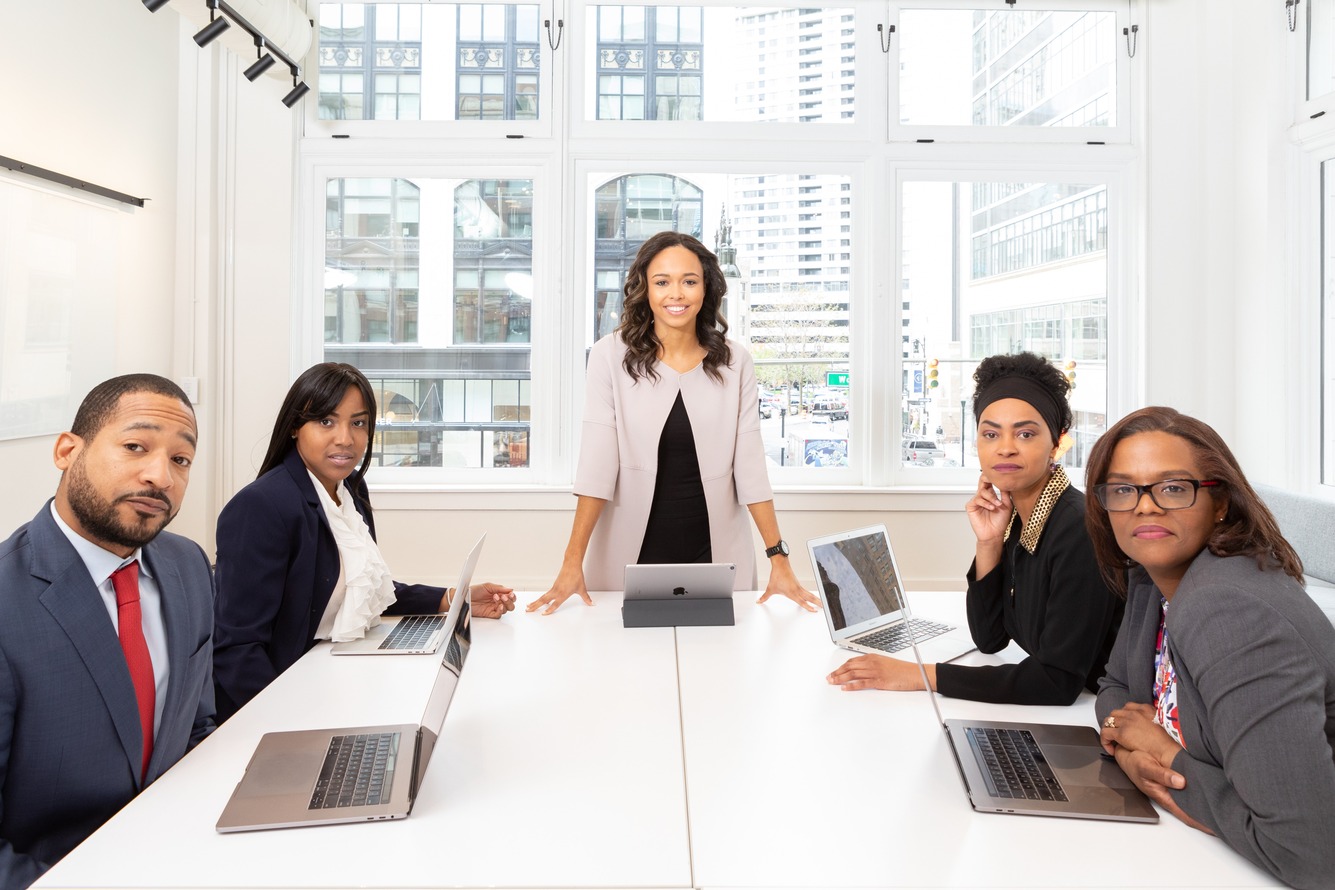
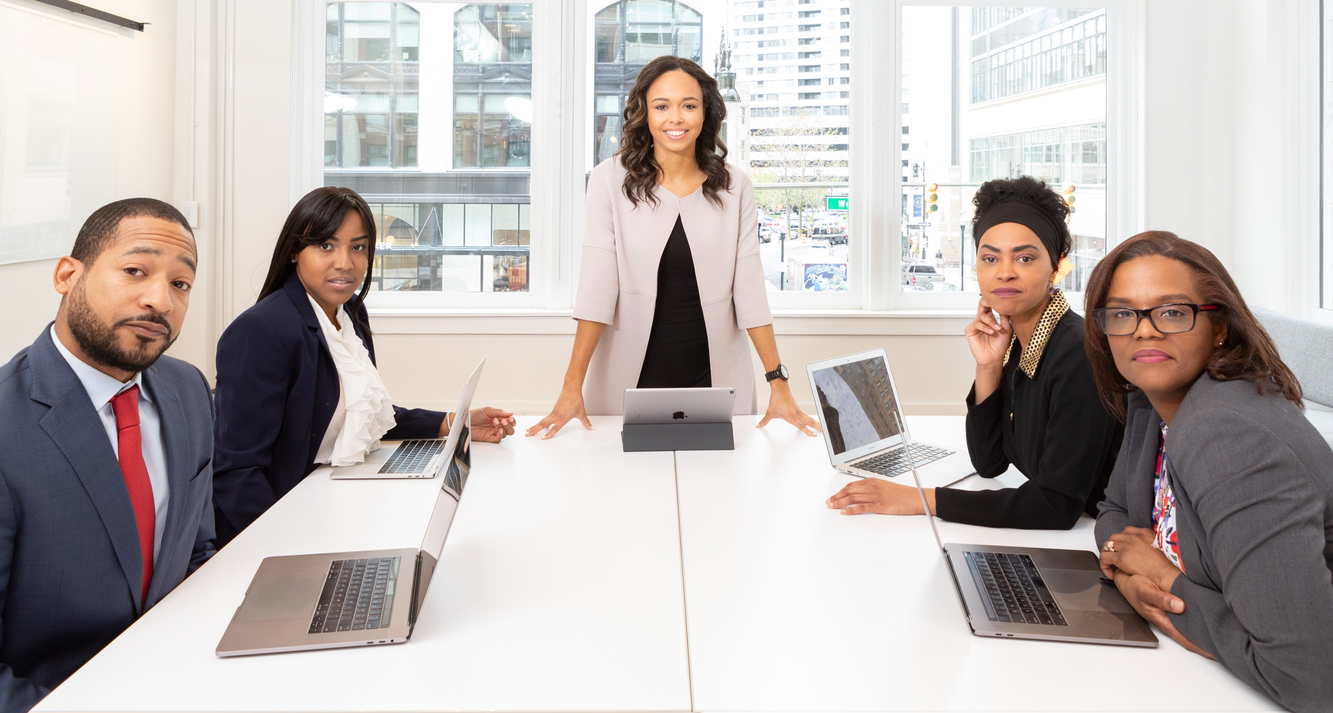
Add the carousel for homepage

diff --git a/src/app/smartjobs/components/homepage/homepage.component.css b/src/app/smartjobs/components/homepage/homepage.component.css
@@ -1,20 +1,102 @@
-h3,
+@import url('https://fonts.googleapis.com/css?family=Roboto:300');
+.owl-carousel-holder{
+  width:100%;
+  float: left;
+}
+.img-wrapper {
+  position: relative;
+  text-align: center;
+  color: #415AB5;
+}
+.centered {
+  position: absolute;
+  top: 73%;
+  left: 50%;
+  transform: translate(-50%, -50%);
+  font-family:'Roboto';
+}
+.centered {
+  display:inline-block;
+  overflow:hidden;
+  white-space:nowrap;
+}
+
+.centered:first-of-type {    /* For increasing performance 
+                       ID/Class should've been used. 
+                       For a small demo 
+                       it's okaish for now */
+  animation: showup 7s infinite;
+}
+
+.centered:last-of-type {
+  width:0px;
+  animation: reveal 7s infinite;
+}
+
+.centered:last-of-type span {
+  margin-left:-355px;
+  animation: slidein 7s infinite;
+}
+
+@keyframes showup {
+    0% {opacity:0;}
+    20% {opacity:1;}
+    80% {opacity:1;}
+    100% {opacity:0;}
+}
+
+@keyframes slidein {
+    0% { margin-left:-800px; }
+    20% { margin-left:-800px; }
+    35% { margin-left:0px; }
+    100% { margin-left:0px; }
+}
+
+@keyframes reveal {
+    0% {opacity:0;width:0px;}
+    20% {opacity:1;width:0px;}
+    30% {width:355px;}
+    80% {opacity:1;}
+    100% {opacity:0;width:355px;}
+}
+.links {
+  position: absolute;
+  left: 39%;
+  top: 80%;
+}
+
+
+
+/* .carousel-section{
+  width: 100%;
+  height: 30px;
+  float: left;
+  margin-top: 60px;
+} */
+
+/* .slider-image-section{
+  width: 100%;
+  height:30px;
+  float: left;
+} */
+/* h3,
 h5, h4, mat-card-title, .appdate {
   color: #4159B5;
   margin-bottom: 5px;
-}
+} */
 
 img {
-  width: 100vh;
+  /* width: 110%; */
+  /* height: 95vh; */
 }
-
+/* 
 mat-grid-tile img {
-  /* border-radius: 50%; */
+  border-radius: 50%;
   height: 50px;
   width: 50px;
-}
+} */
 
-.col-md-3 {
+/* .col-md-3 {
   margin-right: 20px;
 }
 .full-width {
@@ -25,9 +107,9 @@ mat-grid-tile img {
 .form_container {
   padding-bottom: 10px;
   margin-top: 20px;
-}
+} */
 
-.step1s {
+/* .step1s {
   display: none;
 }
 mat-card:hover + .step1p {
@@ -36,4 +118,4 @@ mat-card:hover + .step1p {
 
 mat-card:hover + .step1S {
   display: block;
-}
+} */

diff --git a/src/app/smartjobs/components/homepage/homepage.component.html b/src/app/smartjobs/components/homepage/homepage.component.html
@@ -1,22 +1,36 @@
 <app-header></app-header>
-<div mnFullpage
-    [mnFullpageNavigation]="true"
-    [mnFullpageKeyboardScrolling]="true"
-    [mnFullpageSlidesNavigation]="true"
-    [mnFullpageControlArrows]="false"
-    mnFullpageSlidesNavPosition="bottom">
+<div mnFullpage>
+  <div class="section welcome-section fp-section fp-table">
+    <div class="fp-tableCell">
+      <owl-carousel [options]="mySlideOptions" [items]="images" [carouselClasses]="['owl-theme', 'sliding']">
+        <div class="item" *ngFor="let image of mySlideImages;let i = index">
+          <div style="max-width: 200vh; max-height: 100vh" class="img-wrapper">
+            <img src={{image.image}} />
+            <div class="links">
+              <button class="submit-btn" color="primary"
+                  mat-raised-button type="button" (click)="navigateJobs()">Find A Job</button>
+              <button class="submit-btn" color="primary" style="margin-left:140px;" mat-raised-button type="submit"
+                (click)="navigateCreateCompany()">Post A Job</button>
+            </div>
+            <div class="centered">
+              <h5>{{image.header}}</h5><br>
+              <h3>{{image.text}}</h3>
+            </div>
+            
+          </div>
+        </div>
+      </owl-carousel>
+    </div>
+  </div>
+  <div class="section welcome-section fp-section fp-table">
+    <div class="fp-tableCell">
+      2
+    </div>
+  </div>
+  <div class="section welcome-section fp-section fp-table">
+    <div class="fp-tableCell">
+      3
 
-    <div id="section1" class="section fp-section fp-table">
-        <div class="fp-tableCell">
-            Section 1
-        </div>
     </div>
-    <div id="section2" class="section fp-section fp-table">
-        <div class="fp-tableCell">
-            <div class="slide">Slide 1</div>
-            <div class="slide">Slide 2</div>
-            <div class="slide">Slide 3</div>
-            <div class="slide">Slide 4</div>
-        </div>
-    </div>
+  </div>
 </div>

diff --git a/src/app/smartjobs/components/homepage/homepage.component.ts b/src/app/smartjobs/components/homepage/homepage.component.ts
@@ -32,16 +32,6 @@ import * as $ from 'jquery';
 })
 export class HomepageComponent implements OnInit {
 
-  error: any;
-  isLoading: boolean;
-  companyId: any;
-  userId: any;
-  jobId: any;
-  jobsList = [];
-  
-  defaultElevation = 2;
-  raisedElevation = 8;
-
   constructor(
     private router: Router,
     private prof: ProfileService,
@@ -51,6 +41,24 @@ export class HomepageComponent implements OnInit {
     private actRoute: ActivatedRoute,
     private location: Location,
   ) { }
+
+  error: any;
+  isLoading: boolean;
+  companyId: any;
+  userId: any;
+  jobId: any;
+  jobsList = [];
+  defaultElevation = 2;
+  raisedElevation = 8;
+
+  mySlideImages = [ 
+    {image: 'assets/Carousel/woman-standing-on-the-center-table-with-four-people-on-the-1367271.jpg', header: 'We Can Be Your Guide', text: 'In The World Of Recruitment',top: '70', left: '50', }, 
+    {image: 'assets/Carousel/woman-sitting-in-front-on-brown-wooden-table-1181401.jpg', header: 'We Know What It Takes' , text: 'To Find the Right Employees', top: '70', left: '50',},
+    {image: 'assets/Carousel/woman-standing-on-the-center-table-with-four-people-on-the-1367271.jpg', header: 'Need An Employee?' , text: 'Find Your Perfect Candidates', top: '70', left: '50', }
+  ];
+  myCarouselImages = [1, 2, 3, 4, 5, 6].map((i) => `https://picsum.photos/640/480?image=${i}`);
+  mySlideOptions = {items: 1, dots: true, nav: false, autoplay: true, loop: true};
+  myCarouselOptions = {items: 3, dots: true, nav: true};
 
   ngOnInit() {
     // this.getJobs();

diff --git a/src/app/app.module.ts b/src/app/app.module.ts
@@ -2,6 +2,7 @@ import { BrowserModule } from '@angular/platform-browser';
 import { NgModule, CUSTOM_ELEMENTS_SCHEMA  } from '@angular/core';
 import { MnFullpageModule } from 'ngx-fullpage';
 import { AngularFullpageModule } from '@fullpage/angular-fullpage';
+import { OwlModule } from 'ngx-owl-carousel';
 
 
 import { AppRoutingModule } from './app-routing.module';
@@ -175,6 +176,7 @@ import { ReportsComponent } from './smartjobs/components/reports/reports.compone
     MatSelectCountryModule,
     MnFullpageModule.forRoot(),
     NgbModule,
+    OwlModule,
     SatDatepickerModule,
     RatingModule,
     CloudinaryModule.forRoot(cloudinaryLib, { cloud_name: environment.cloudName, secure: true }),
